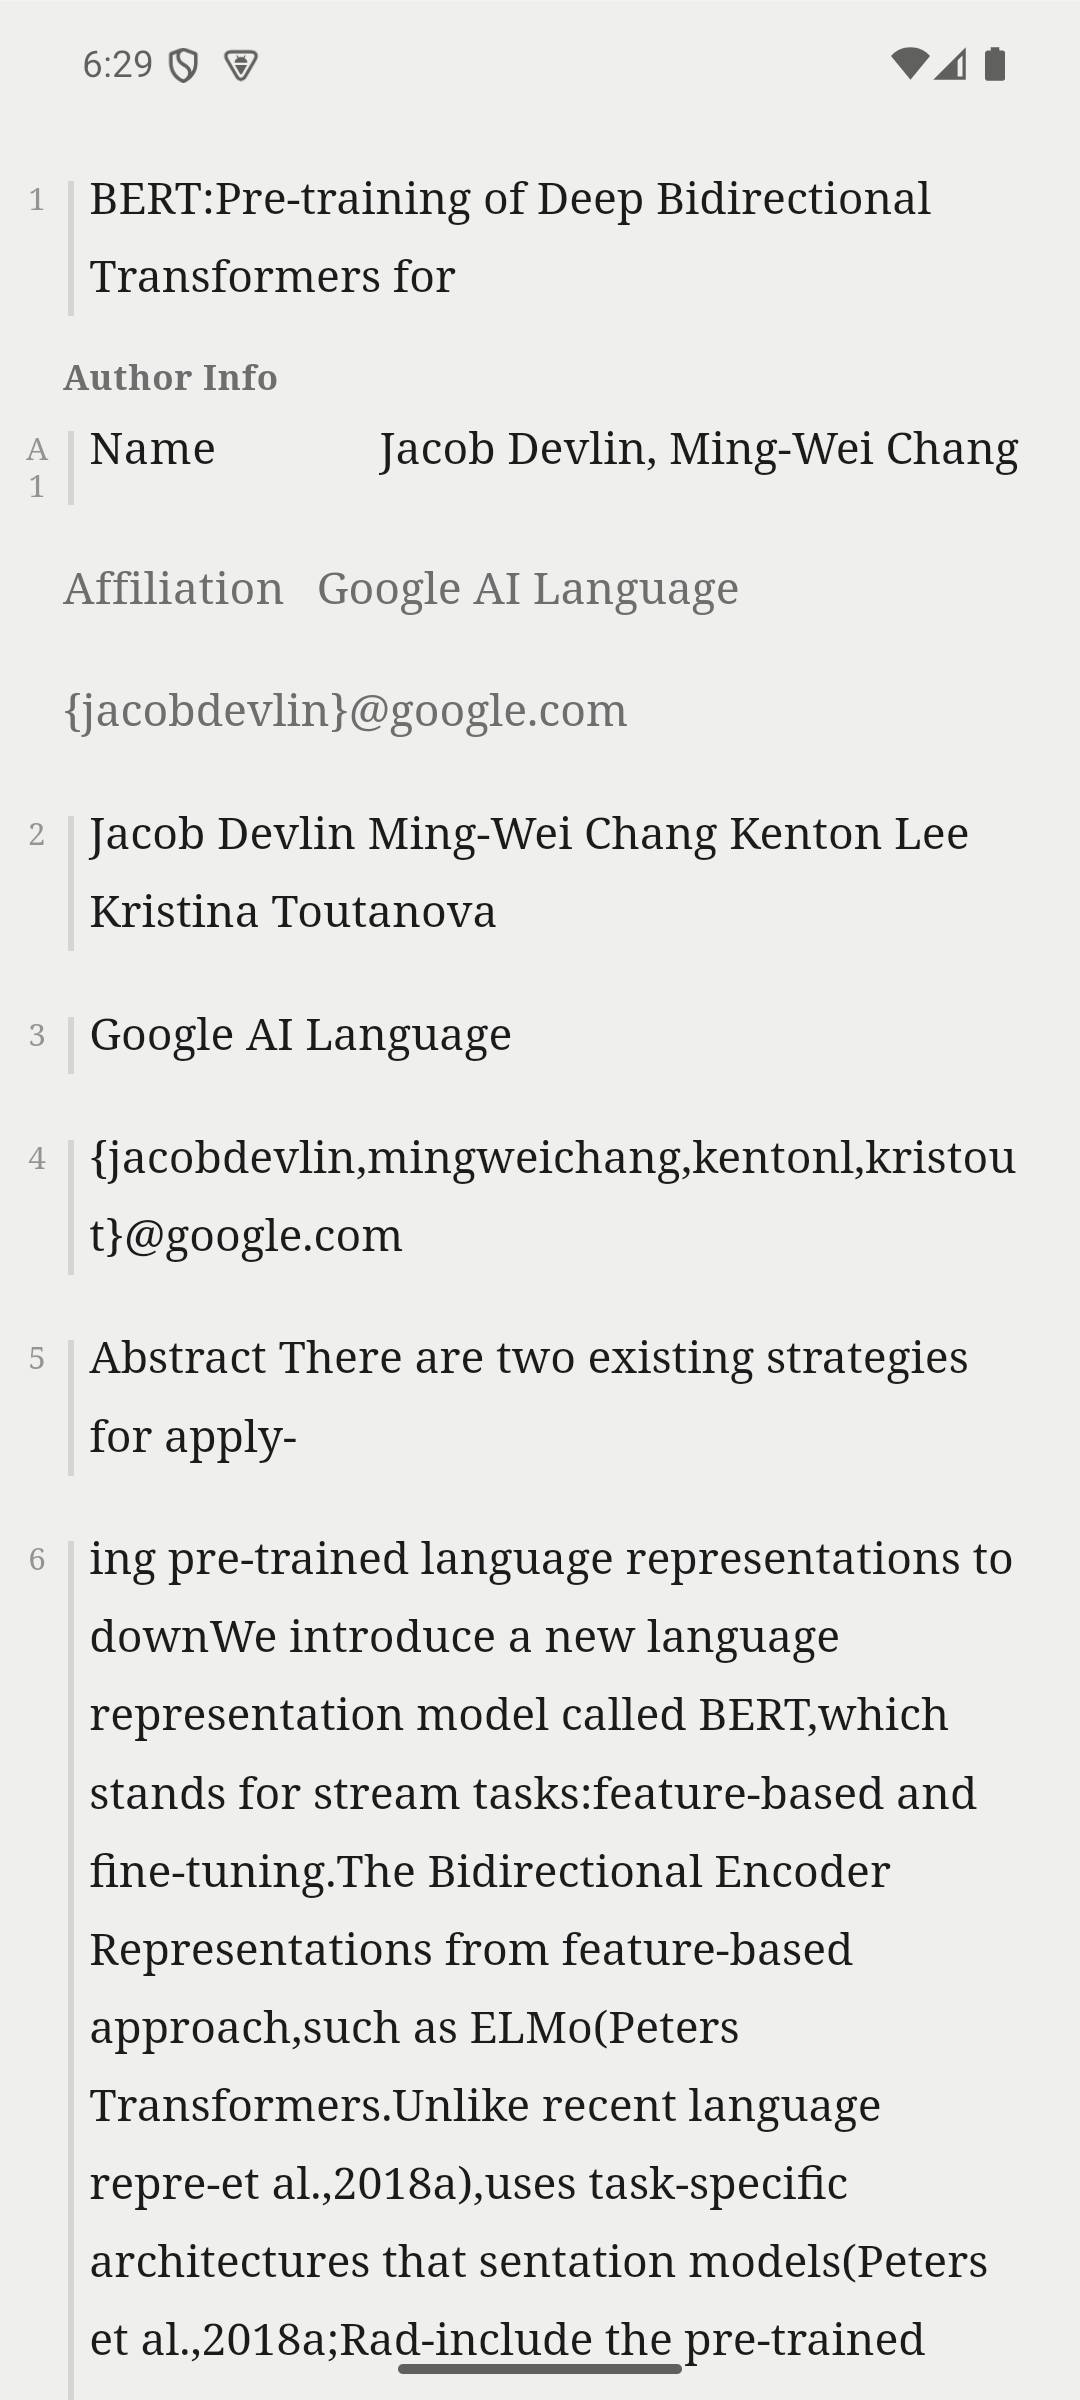
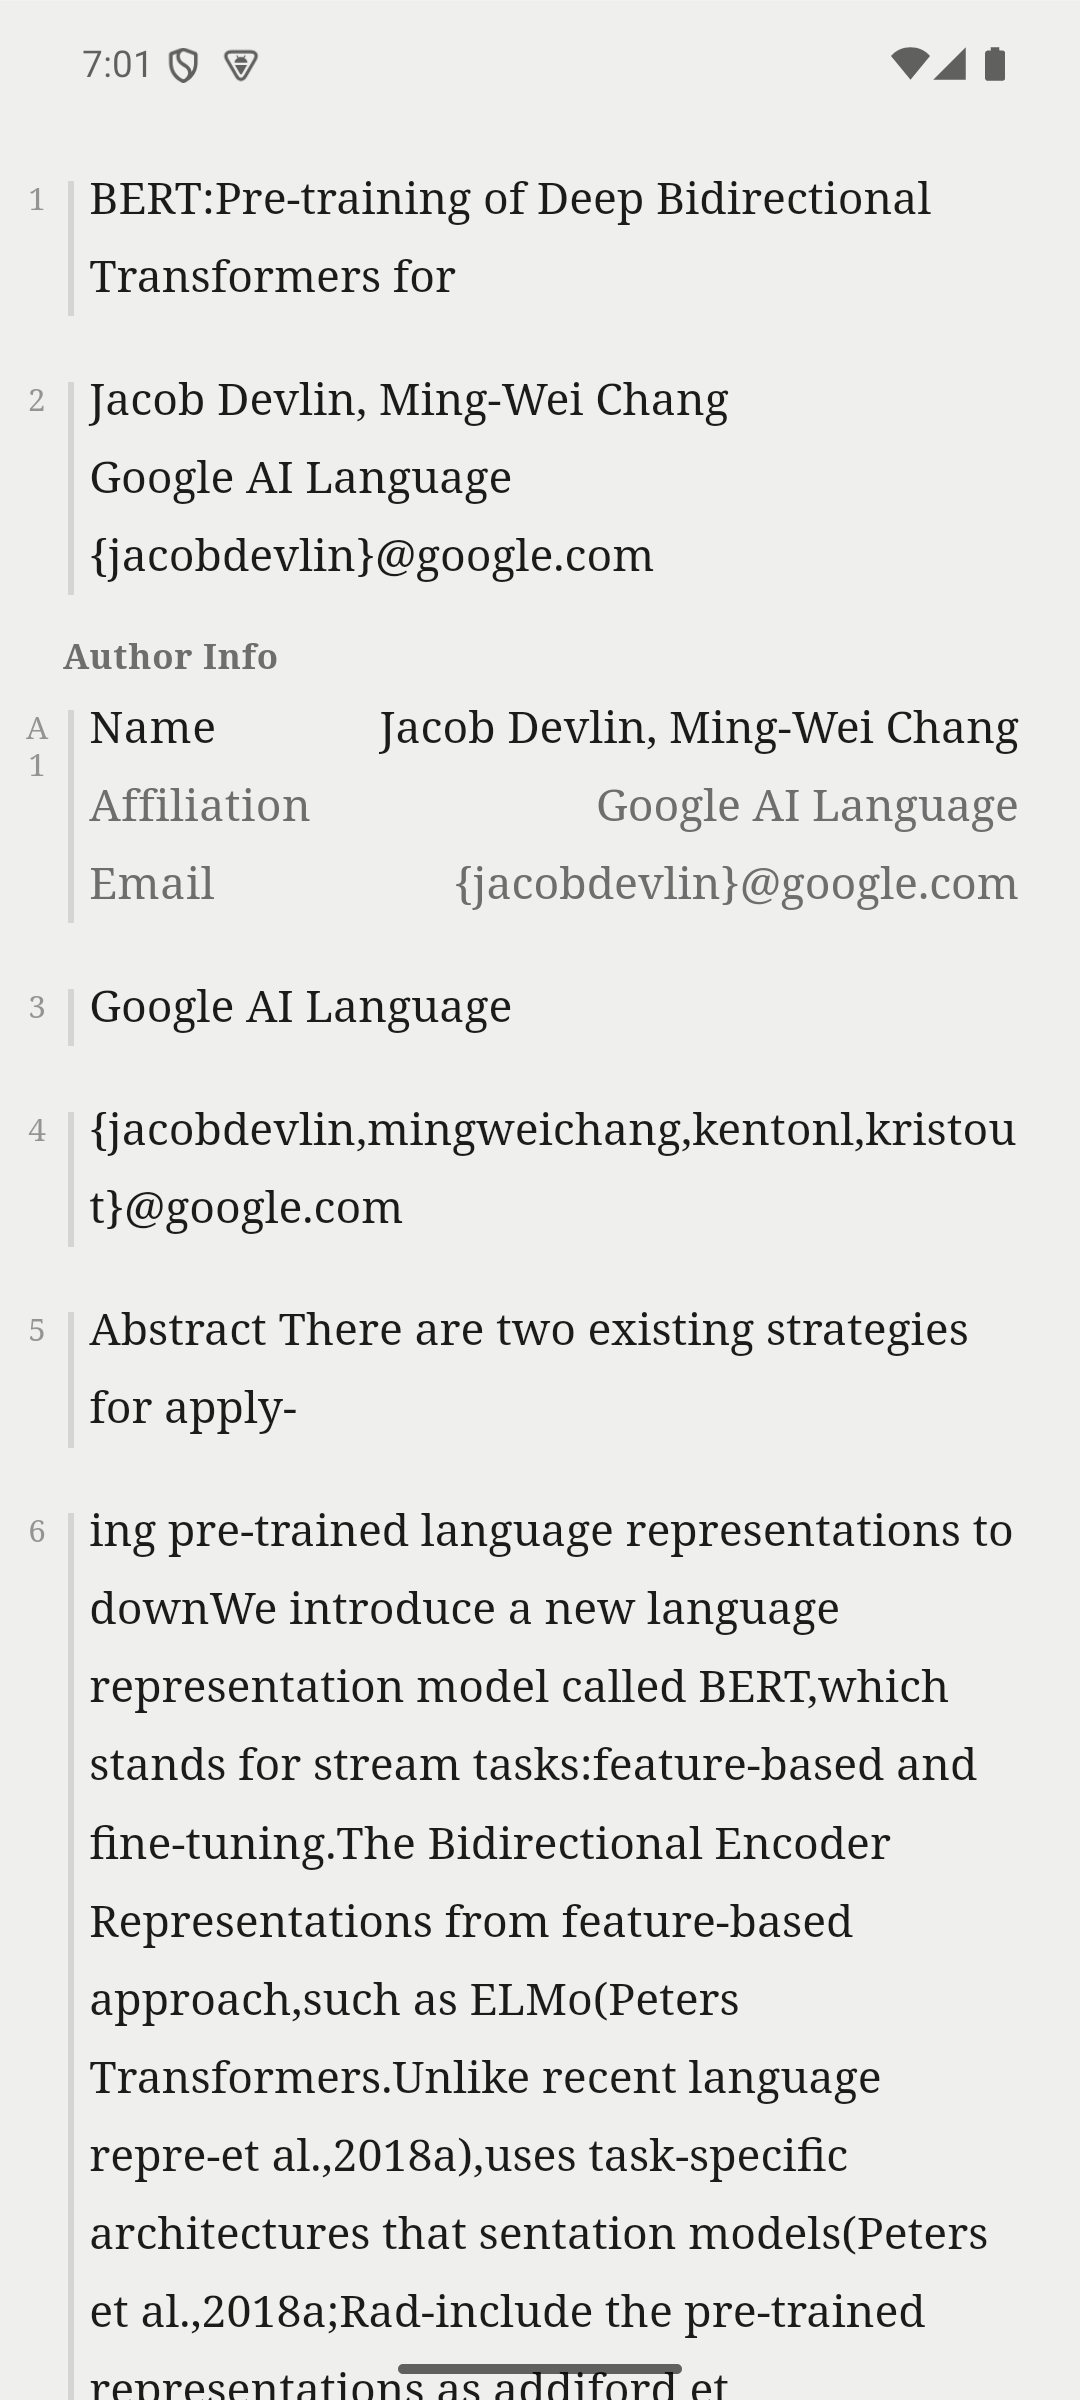
fix: author block is one paragraph with continuous rule, rows are field+value flex (v0.1.86)

diff --git a/app/src/main/assets/www/reader.js b/app/src/main/assets/www/reader.js
@@ -3497,36 +3497,62 @@
 
         var numbered = false;
 
+        /*
+          ══ ⚠⚠ 一个块 = **一个** `<p>`，多行放在它内部（v0.1.86）══
+
+          用户要求（原话）：
+            「整个段不应该断开啊，你看提示条是断开的。」
+            「明明在元素内一个左对齐元素一个右对齐元素就可以了啊。」
+
+          ⚠⚠ 我之前的实现是"每行一个 `<p>`"，于是每行各带一条竖线
+             （`.reader-rule` 的 `align-self: stretch` 只撑满**自己那一段**），
+             三段之间还有段间距 —— 视觉上就是**提示条断成三截**。
+
+          ✅ 正确结构：整块只输出一个 `<p>`（带 gutter），
+             行是它内部的普通块级元素：
+
+              <p class="reader-para is-body-para is-author-body" data-no="A1">
+                <span class="reader-rule"></span>        ← 一条竖线，撑满整块
+                <span class="reader-author-lines">       ← 右列：所有行
+                  <span class="reader-author-line">
+                    <span class="reader-author-field">Name</span>        ← 左对齐
+                    <span class="reader-author-value">Jacob…</span>      ← 右对齐
+                  </span>
+                  …
+                </span>
+              </p>
+
+          ✅ 每行就是用户说的「一个左对齐元素 + 一个右对齐元素」，
+             用 `.reader-author-line` 的 `display:flex` 排开。
+          ✅ 竖线只有一条，`align-self: stretch` 自动贯穿整个段落 —— 天然连续。
+        */
+        var p = document.createElement('p');
+        p.className = 'reader-para is-labeled-body is-author-body';
+        p.setAttribute('data-label', 'author');
+
+        if (b.page) p.setAttribute('data-page', String(b.page));
+        if (typeof b.line === 'number' && b.line >= 0) {
+            p.setAttribute('data-line', String(b.line));
+        }
+
+        /* 右列容器：装所有行 */
+        var linesEl = document.createElement('span');
+        linesEl.className = 'reader-author-lines';
+
         for (var s = 0; s < segs.length; s++) {
             var seg = segs[s];
 
-            /* 空行跳过 —— 不渲染空段落（渲染层既有规则） */
+            /* 空行跳过 —— 不渲染空行 */
             if (!seg.text.replace(/\s+/g, '')) continue;
 
             /*
-              ══ ⚠⚠ 找覆盖这一行的标注（v0.1.82 改判据）══
+              ══ 找覆盖这一行的标注 ══
 
-              用户反馈：
-                「非姓名行也增加了姓名子标签」
-                「其他没有添加子标签的也出现了这样的问题」
-
-              旧判据是"行区间与标注区间**有交集**就算命中，取第一个"：
-
-                  if (cs < seg.end && ce > seg.start) { hit = cand; break; }
-
-              ⚠ 这个判据在块里**没有换行符**时会全面失效 ——
-                 整块只有一行，`seg` 就是 `[0, len)`，
-                 所有标注都与它"相交"，于是第一个标注被应用到整行，
-                 而且每一行（如果有）都会拿到同一个标注。
-
-              ✅ 改成**按行中心点归属**：
+              ✅ 按**行中心点归属**：
                  先看哪个标注完整包含这一行的中心字符，
                  没有则退回"交集最大"的那个。
                  中心点落在哪个标注里，那一行就属于哪个标注 ——
                  这与直观一致，也不会被相邻标注"抢走"。
-
-              ⚠ 仍保留"交集"作为兜底：某些标注区间可能没覆盖整行
-                 （历史数据、编辑后偏移），交集最大的那个更可能是对的。
             */
             var mid = Math.floor((seg.start + seg.end) / 2);
             var hit = null;
@@ -3553,69 +3579,46 @@
                 }
             }
 
-            var p = document.createElement('p');
-            p.className = 'reader-para is-labeled-body is-author-body';
-            p.setAttribute('data-label', 'author');
-
+            var lineEl = document.createElement('span');
+            lineEl.className = 'reader-author-line';
             if (hit && hit.field === 'name') {
-                p.classList.add('is-author-name');
+                lineEl.classList.add('is-author-name');
             }
 
+            /* 左：项名（只有设了子标签才有） */
             if (hit && hit.field) {
                 var fieldEl = document.createElement('span');
                 fieldEl.className = 'reader-author-field';
                 fieldEl.textContent = t('reader.field.' + hit.field);
-                p.appendChild(fieldEl);
+                lineEl.appendChild(fieldEl);
             }
 
+            /* 右：内容 */
             var valEl = document.createElement('span');
             valEl.className = 'reader-author-value';
             valEl.textContent = seg.text;
-            p.appendChild(valEl);
+            lineEl.appendChild(valEl);
 
-            if (b.page) p.setAttribute('data-page', String(b.page));
-            if (typeof b.line === 'number' && b.line >= 0) {
-                p.setAttribute('data-line', String(b.line));
-            }
-
-            if (!numbered && markTyped) {
-                markTyped(p, 'author');
-                numbered = true;
-            } else {
-                /*
-                  ══ ⚠⚠ 后续行也要挂 gutter，只是**不写编号**（v0.1.83）══
-
-                  用户反馈：
-                    「所有作者信息的第一行都还在作者信息区域内，
-                      但后面的行都出现了超出作者区域且也没有正文段编号」
-
-                  真因：`attachBodyMarker()` 给段落加上 `is-body-para` 后，
-                  该段落变成 flex 容器并带 `margin-left:-16px`；
-                  被它抵消的是 `.reader-para` 的 `padding-left:16px`。
-
-                  ⚠ 于是同一块里：
-                     第一行  → 有 `is-body-para`，向左让出 gutter；
-                     其余行  → 没有 → 仍按原 padding 起排，
-                                视觉上"缩进偏右"，看起来跑出了作者区域。
-
-                  ✅ 所以每一行都调用 `attachBodyMarker()`，
-                     但只有第一行传真实编号，其余行传空串 ——
-                     竖线与编号列照样占位，文字左边缘完全对齐。
-                     `data-body-no=""` 时 CSS 的 `::before` 不显示内容，
-                     但 `width` 固定，占位不变。
-                */
-                attachBodyMarker(p, '');
-            }
-
-            frag.appendChild(p);
+            linesEl.appendChild(lineEl);
         }
 
-        /* 极端情况：所有行都是空白 → 至少给个空占位，避免块整个消失 */
+        /* 整块一个编号，加在这一整个 `<p>` 上 */
+        if (markTyped) {
+            markTyped(p, 'author');
+            numbered = true;
+        }
+        p.appendChild(linesEl);
+
+        /*
+          ⚠ 极端情况：所有行都是空白 → 块会整个消失。
+             此时退回普通段落占位，保证块仍然存在于 DOM 里
+             （否则 `data-line` 找不到，编辑/标注会失效）。
+        */
         if (!numbered) {
-            var empty = makePlainPara(fullText, b);
-            return empty;
+            return makePlainPara(fullText, b);
         }
 
+        frag.appendChild(p);
         return frag;
     }
 

diff --git a/app/src/main/assets/www/styles.css b/app/src/main/assets/www/styles.css
@@ -1920,6 +1920,61 @@ body {
     align-items: flex-start;
 }
 
+/*
+  ══ 作者信息：整块一个段落，内部逐行左右分栏（v0.1.86）══
+
+  用户要求（原话）：
+    「整个段不应该断开啊，你看提示条是断开的。」
+    「明明在元素内一个左对齐元素一个右对齐元素就可以了啊。」
+
+  ⚠⚠ 旧实现是"每行一个 `<p>`"，每行各带一条竖线，
+     而 `.reader-rule` 的 `align-self: stretch` 只撑满**自己那一段**，
+     于是三行 = 三条断开的短线 + 三份段间距。
+
+  ✅ 现在整块只有一个 `<p>`，竖线只有一条，自然贯穿到底。
+     行在 `.reader-author-lines` 内部，每行自己是一个 flex：
+
+         [项名 flex:0] [内容 flex:1 text-align:right]
+
+     这正是用户说的"一个左对齐元素一个右对齐元素"。
+*/
+
+/* 右列容器：装所有行，吃掉竖线右侧的全部宽度 */
+.reader-para.is-author-body .reader-author-lines {
+    /*
+      ⚠ `flex: 1 1 auto` + `min-width: 0`：
+         必须能收缩，否则长内容会把竖线挤歪。
+         `min-width: auto`（默认）在 flex 项上不能收缩到内容以下。
+    */
+    flex: 1 1 auto;
+    min-width: 0;
+    /*
+      ⚠ 行与行之间用**行内间距**，不是段间距 ——
+         作者信息的几行属于同一条目，视觉上要紧凑。
+    */
+    display: flex;
+    flex-direction: column;
+}
+
+/* 单行：左项名 + 右内容 */
+.reader-author-line {
+    display: flex;
+    align-items: baseline;
+    /*
+      ⚠ 不用 `justify-content` —— 与整块同理，
+         让内容自己 `flex:1` + `text-align:right` 贴右，
+         项名宽度由自身文字决定。这样：
+           · 有项名 → 项名在左、内容贴右；
+           · 无项名 → 内容独占一行，同样贴右。
+    */
+    gap: 12px;
+}
+
+/* 姓名行用正文色，其余行淡色（父级规则已给淡色，这里只覆盖姓名行） */
+.reader-author-line.is-author-name {
+    color: var(--on-surface);
+}
+
 /* 项名：贴左，不伸展 */
 .reader-author-field {
     /*

diff --git a/tools/_probe_author.js b/tools/_probe_author.js
@@ -1,0 +1,45 @@
+return (function(){
+  var R = window.ScholariusReader;
+  var d = R.dumpEdits();
+  function esc(s){ return String(s).replace(/\r/g,'<CR>').replace(/\n/g,'<LF>'); }
+  var labels = d.labels || {};
+  var lines = Object.keys(labels);
+  var src = [];
+  for (var i = 0; i < lines.length; i++) {
+    var ln = Number(lines[i]);
+    src.push({ line: ln, spans: labels[lines[i]] });
+  }
+  var dom = [];
+  var nodes = document.querySelectorAll('.reader-para');
+  for (var j = 0; j < nodes.length; j++) {
+    var n = nodes[j];
+    var cls = n.className;
+    if (cls.indexOf('is-author-body') < 0 && n.getAttribute('data-label') !== 'author') continue;
+    var cs = getComputedStyle(n);
+    var kids = [];
+    for (var q = 0; q < n.children.length; q++) {
+      var c = n.children[q];
+      kids.push(c.className + '=' + c.textContent.slice(0, 18));
+    }
+    dom.push({
+      line: n.getAttribute('data-line'),
+      no: n.getAttribute('data-body-no'),
+      cls: cls.replace('reader-para ',''),
+      color: cs.color,
+      display: cs.display,
+      left: Math.round(n.getBoundingClientRect().left),
+      width: Math.round(n.getBoundingClientRect().width),
+      kids: kids,
+      text: esc(n.textContent.slice(0, 40))
+    });
+  }
+  // 该块在 docModel 里的真实文本
+  var raw = {};
+  for (var s = 0; s < src.length; s++) {
+    var bl = null;
+    var lnum = src[s].line;
+    var els = document.querySelectorAll('[data-line="' + lnum + '"]');
+    raw[lnum] = { domParts: els.length };
+  }
+  return JSON.stringify({ key: d.docStoreKey, src: src, dom: dom, raw: raw, err: d.lastError }, null, 1);
+})()
